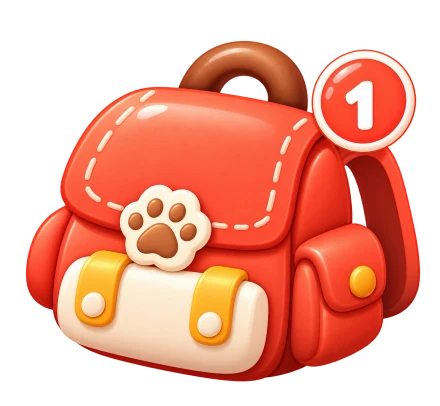
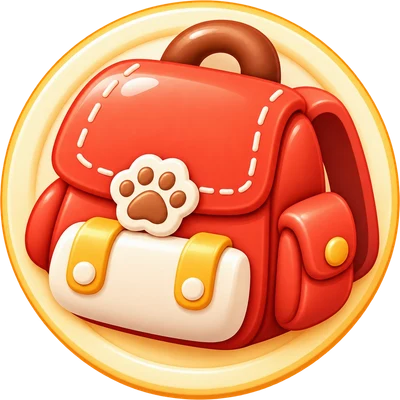
board: 背包鈕換成圓形插畫版(沒有內建數字),道具數量紅點放右上角

diff --git a/public/catinsight-3d/board/style.css b/public/catinsight-3d/board/style.css
@@ -30,11 +30,11 @@
   .m small{display:block;font-weight:600;color:#9a8676;font-size:calc(11px * var(--fs))}
   .ctl{position:fixed;left:0;right:0;bottom:calc(58px + env(safe-area-inset-bottom));display:flex;justify-content:center;align-items:flex-end;gap:calc(14px + var(--roll) * .1);z-index:6}
   /* 背包鈕:只放背包圖示,右上角一個小數字是手上的道具數 */
-  /* 背包鈕:只有插畫,沒有藍色底;數量圓點疊在圖上畫好的紅圓(中心 x 83% / y 25.5%,直徑 23%)上 */
-  .paw.bag{position:relative;width:calc(var(--btn) * 1.5);height:calc(var(--btn) * 1.385);padding:0;border:0;background:none;box-shadow:none;border-radius:0;overflow:visible}
+  /* 背包鈕:圓形插畫,沒有藍色底;數量紅點在右上角 */
+  .paw.bag{position:relative;width:calc(var(--btn) * 1.3);height:calc(var(--btn) * 1.3);padding:0;border:0;background:none;box-shadow:none;border-radius:50%;overflow:visible}
   .paw.bag img{width:100%;height:100%;object-fit:contain;display:block;filter:drop-shadow(0 4px 0 rgba(0,0,0,.14))}
   .paw.bag:active{transform:translateY(3px)}
-  .paw.bag b{position:absolute;left:83%;top:25.5%;transform:translate(-50%,-50%);width:24%;height:calc(var(--btn) * 1.5 * .24);min-width:0;padding:0;border-radius:50%;background:#fd472a;border:2px solid #fff;color:#fff;font-size:calc(var(--btn) * .26);line-height:1;font-weight:900;display:flex;align-items:center;justify-content:center}
+  .paw.bag b{position:absolute;left:86%;top:14%;transform:translate(-50%,-50%);width:30%;height:30%;min-width:0;padding:0;border-radius:50%;background:#fd472a;border:2px solid #fff;color:#fff;font-size:calc(var(--btn) * .26);line-height:1;font-weight:900;display:flex;align-items:center;justify-content:center}
   .snd.fs svg{width:60%;height:60%;display:block;margin:auto;fill:none;stroke:#fff;stroke-width:3;stroke-linecap:round;stroke-linejoin:round}
   /* 背包鈕靠在擲骰鈕左邊(絕對定位,擲骰鈕才會留在正中間),中心和擲骰鈕對齊 */
   .ctl > .paw{position:absolute;right:calc(50% + var(--roll) * .6 + 14px);bottom:calc((var(--roll) - var(--btn)) / 2)}

diff --git a/public/catinsight-3d/board/index.html b/public/catinsight-3d/board/index.html
@@ -12,7 +12,7 @@
 <meta name="apple-mobile-web-app-title" content="CatInsight">
 <meta name="theme-color" content="#9bdc7a">
 <link rel="apple-touch-icon" href="/catinsight-3d/icon-192.png">
-<link rel="stylesheet" href="style.css?v=45">
+<link rel="stylesheet" href="style.css?v=46">
 <script type="importmap">
 { "imports": {
   "three": "https://cdn.jsdelivr.net/npm/three@0.174.0/build/three.module.js",
@@ -55,8 +55,8 @@
 </div>
 
 <div class="ctl" id="ctl">
-  <!-- 背包:插畫圖示;圖上畫好的紅色小圓就是數量位置,遊戲把真正的道具數疊在同一個位置 -->
-  <button class="paw bag" id="bagBtn" aria-label="backpack"><img src="ic-bag.webp?v=1" alt=""><b id="bagCount">1</b></button>
+  <!-- 背包:圓形插畫圖示,右上角疊道具數量 -->
+  <button class="paw bag" id="bagBtn" aria-label="backpack"><img src="ic-bag.webp?v=2" alt=""><b id="bagCount">1</b></button>
   <div class="rollcol">
     <div class="dsel" id="dsel"><button data-n="1" id="d1"></button><button data-n="2" id="d2" class="on"></button></div>
     <!-- 擲骰鈕:沒有字,只有往上拋的骰子;選一顆就一顆、兩顆就兩顆。休息中才顯示文字 -->

diff --git a/public/catinsight-3d/board/join/index.html b/public/catinsight-3d/board/join/index.html
@@ -11,7 +11,7 @@
 <meta name="theme-color" content="#c9e8b8">
 <link rel="apple-touch-icon" href="/catinsight-3d/icon-192.png">
 <title>貓咪股市大富翁 · 加入房間</title>
-<link rel="stylesheet" href="../style.css?v=45">
+<link rel="stylesheet" href="../style.css?v=46">
 <script type="importmap">
 { "imports": {
   "three": "https://cdn.jsdelivr.net/npm/three@0.174.0/build/three.module.js",

diff --git a/public/catinsight-3d/index.html b/public/catinsight-3d/index.html
@@ -241,6 +241,6 @@
   <button id="next" aria-label="forward">›</button>
 </div>
 <div id="loading">building the room…</div>
-<script type="module" src="./room.mjs?v=295"></script>
+<script type="module" src="./room.mjs?v=296"></script>
 </body>
 </html>
